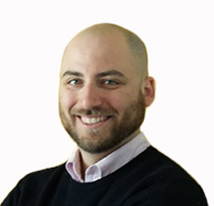
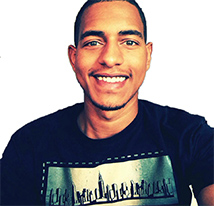
changes to design

diff --git a/templates/base/index.html b/templates/base/index.html
@@ -10,7 +10,7 @@
     <meta name="description" content="">
     <meta name="author" content="">
 
-    <title>C O F F E E D</title>
+    <title>Paulo Pompilio - Web Developer</title>
 
     <!-- Bootstrap Core CSS -->
     <link href="{% static "css/bootstrap.min.css" %}" rel="stylesheet">
@@ -47,7 +47,7 @@
                     <span class="icon-bar"></span>
                     <span class="icon-bar"></span>
                 </button>
-                <a class="navbar-brand page-scroll" href="/">C O F F E E D</a>
+                <a class="navbar-brand page-scroll" href="/">P. P O M P I L I O</a>
             </div>
 
             <!-- Collect the nav links, forms, and other content for toggling -->
@@ -58,11 +58,9 @@
                         <a href="#page-top"></a>
                     </li>
                     <li>
-                        <a class="page-scroll" href="#services">Services</a>
+                        <a class="page-scroll" href="#impression">First Impression</a>
                     </li>
-                    <li>
-                        <a class="page-scroll" href="#team">Team</a>
-                    </li>
+        
                     <li>
                         <a class="page-scroll" href="#contact">Contact</a>
                     </li>
@@ -80,102 +78,46 @@
    <header>
      <div class="container">
        <div class="intro-text">
-         <div class="intro-heading">Hi, We're Coffeed.</div>
-         <div class="intro-lead-in">Find your favorite office away from home. We're curating some of the best coffee shops to successfully work, meet & thrive at.</div>
-         <a href="#services" class="page-scroll btn btn-xl">How It Works</a>
+         <div class="intro-heading">Olá, I am Paulo Pompilio.</div>
+         <div class="intro-lead-in">I'm a web developer passionate about music, technology and creativity.</div>
+         <a href="#impression" class="page-scroll btn btn-xl">Who am I?</a>
        </div>
      </div>
    </header>
 
-    <!-- Services Section -->
-    <section id="services">
+
+
+
+    <!-- Impression Section -->
+    <section id="impression" class="bg-light-gray">
       <div class="container">
         <div class="row">
           <div class="col-lg-12 text-center">
-          <h2 class="section-heading">How It Works</h2>
-
-          </div>
-          </div>
-          <div class="row text-center">
-            <div class="col-md-4">
-            <img class="coffeed-svg-icon" src="{% static "img/svg/python_flag.svg" %}"></>
-            <h4 class="service-heading">Discover Amazing Spots</h4>
-            <p class="text-muted">Coffeed works hard to curate the best coffee places for independent working- so that you can hit those deadlines.</p>
-            </div>
-            <div class="col-md-4">
-            <img class="coffeed-svg-icon" src="{% static "img/svg/python_badge.svg" %}"></>
-            <h4 class="service-heading">Review Your Favorites</h4>
-            <p class="text-muted">Find out what other people are saying and chime in with your opinion. Help each other find the best work locale.</p>
-            </div>
-            <div class="col-md-4">
-            <img class="coffeed-svg-icon" src="{% static "img/svg/python_rocket.svg" %}"></>
-            <h4 class="service-heading">Promote Your Business</h4>
-            <p class="text-muted">Anyone can add their coffee shop location to Coffeed for free. Sit back, relax & watch the reviews pour in.</p>
-            </div>
-        </div>
-      </div>
-</section>
-
-
-
-    <!-- Team Section -->
-    <!-- Team Section -->
-    <section id="team" class="bg-light-gray">
-      <div class="container">
-        <div class="row">
-          <div class="col-lg-12 text-center">
-            <h2 class="section-heading">Our Caffeinated Team</h2>
-            <h3 class="section-subheading text-muted">Working hard to find you the best of the best.</h3>
+            <h2 class="section-heading">First Impression</h2>
+            <h3 class="section-subheading text-muted">Working hard to give you the best service possible.</h3>
           </div>
         </div>
-        <div class="row">
-          <div class="col-sm-4">
-            <div class="team-member">
-              <img src="{% static "img/team/1.jpg" %}" class="img-responsive img-circle" alt="">
-              <h4>Kristina Zmaic</h4>
-              <p class="text-muted">Founder & Designer</p>
-              <ul class="list-inline social-buttons">
-                <li><a href="https://twitter.com/kzmaic"><i class="fa fa-twitter"></i></a>
-                </li>
-                <li><a href="https://instagram.com/kzmaic/"><i class="fa fa-instagram"></i></a>
-                </li>
-              </ul>
-            </div>
-          </div>
-          <div class="col-sm-4">
+        
+          <div class="col-sm-12">
             <div class="team-member">
               <img src="{% static "img/team/2.jpg" %}" class="img-responsive img-circle" alt="">
-              <h4>Eric Neuman</h4>
-              <p class="text-muted">Web & Business Development</p>
+              <h4>Paulo Pompilio</h4>
+              <p class="text-muted"> Software / Web Developer</p>
               <ul class="list-inline social-buttons">
-                <li><a href="https://twitter.com/eric_neuman"><i class="fa fa-twitter"></i></a>
+                <li><a href="https://twitter.com/pompasjr"><i class="fa fa-twitter"></i></a>
                 </li>
-                <li><a href="https://instagram.com/eric_neuman"><i class="fa fa-instagram"></i></a>
+                <li><a href="https://instagram.com/paulo.pompilio"><i class="fa fa-instagram"></i></a>
                 </li>
-                <li><a href="https://www.linkedin.com/in/ericneuman"><i class="fa fa-linkedin"></i></a>
+                <li><a href="https://www.linkedin.com/in/pompiliopaulo"><i class="fa fa-linkedin"></i></a>
                 </li>
               </ul>
             </div>
           </div>
-          <div class="col-sm-4">
-            <div class="team-member">
-              <img src="{% static "img/team/3.jpg" %}" class="img-responsive img-circle" alt="">
-              <h4>Chris Castiglione</h4>
-              <p class="text-muted">Project Management</p>
-              <ul class="list-inline social-buttons">
-                <li><a href="https://twitter.com/castig"><i class="fa fa-twitter"></i></a>
-                </li>
-                <li><a href="https://instagram.com/castig"><i class="fa fa-instagram"></i></a>
-                </li>
-                <li><a href="http://www.linkedin.com/in/castig"><i class="fa fa-linkedin"></i></a>
-                </li>
-              </ul>
-            </div>
-          </div>
+         
         </div>
         <div class="row">
           <div class="col-lg-8 col-lg-offset-2 text-center">
-            <p class="large text-muted">We're three geeks who love coffee, working, and building things — and wanted to map out all the best coffee locations where we would work with ease in our neighborhood.</p>
+            <p class="large text-muted">I'm just a geek who loves technology, working, and lear new things — and wanted to share all my work and curiosities with the world</p>
           </div>
         </div>
       </div>
@@ -186,8 +128,8 @@
       <div class="container">
         <div class="row">
           <div class="col-lg-12">
-            <h2 class="section-heading">Be the first to find out.</h2>
-            <h3 class="section-subheading text-muted">We'll be launching soon, so sign up to be one of the first to be invited.</h3>
+            <h2 class="section-heading">For more info contact me.</h2>
+            <h3 class="section-subheading text-muted">I'll be launching soon a blog with the most recent news and  sharing information </br>about partners in the world of creativity! </h3>
           </div>
         </div>
         <div class="row">
@@ -210,7 +152,7 @@
         <div class="container">
             <div class="row">
                 <div class="col-md-4">
-                    <span class="copyright">Copyright &copy; Your Website 2014</span>
+                    <span class="copyright">Copyright &copy; ByPompz</span>
                 </div>
                 <div class="col-md-4">
                     <ul class="list-inline social-buttons">

diff --git a/static/css/bootstrap.css b/static/css/bootstrap.css
@@ -1147,6 +1147,8 @@ img {
 }
 .img-circle {
   border-radius: 50%;
+  width:300px;
+  height: 300px;
 }
 hr {
   margin-top: 20px;
